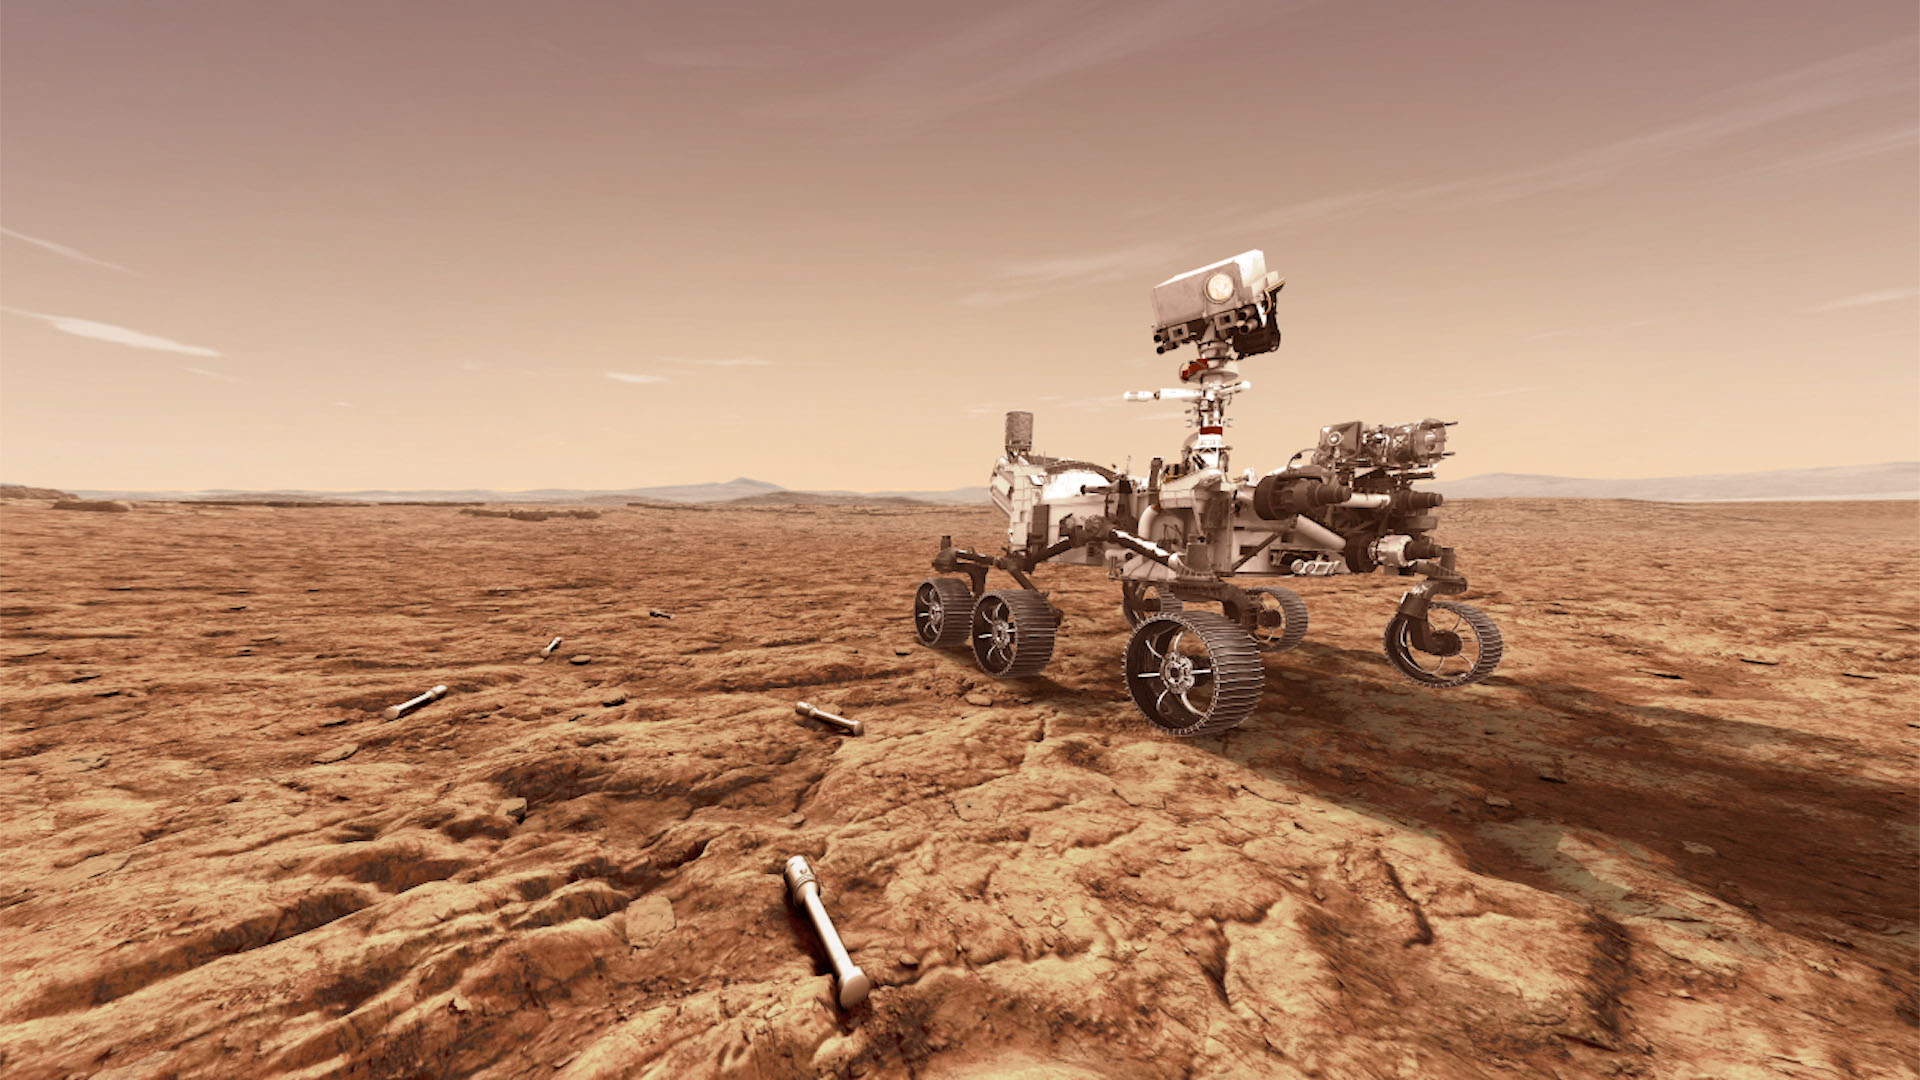
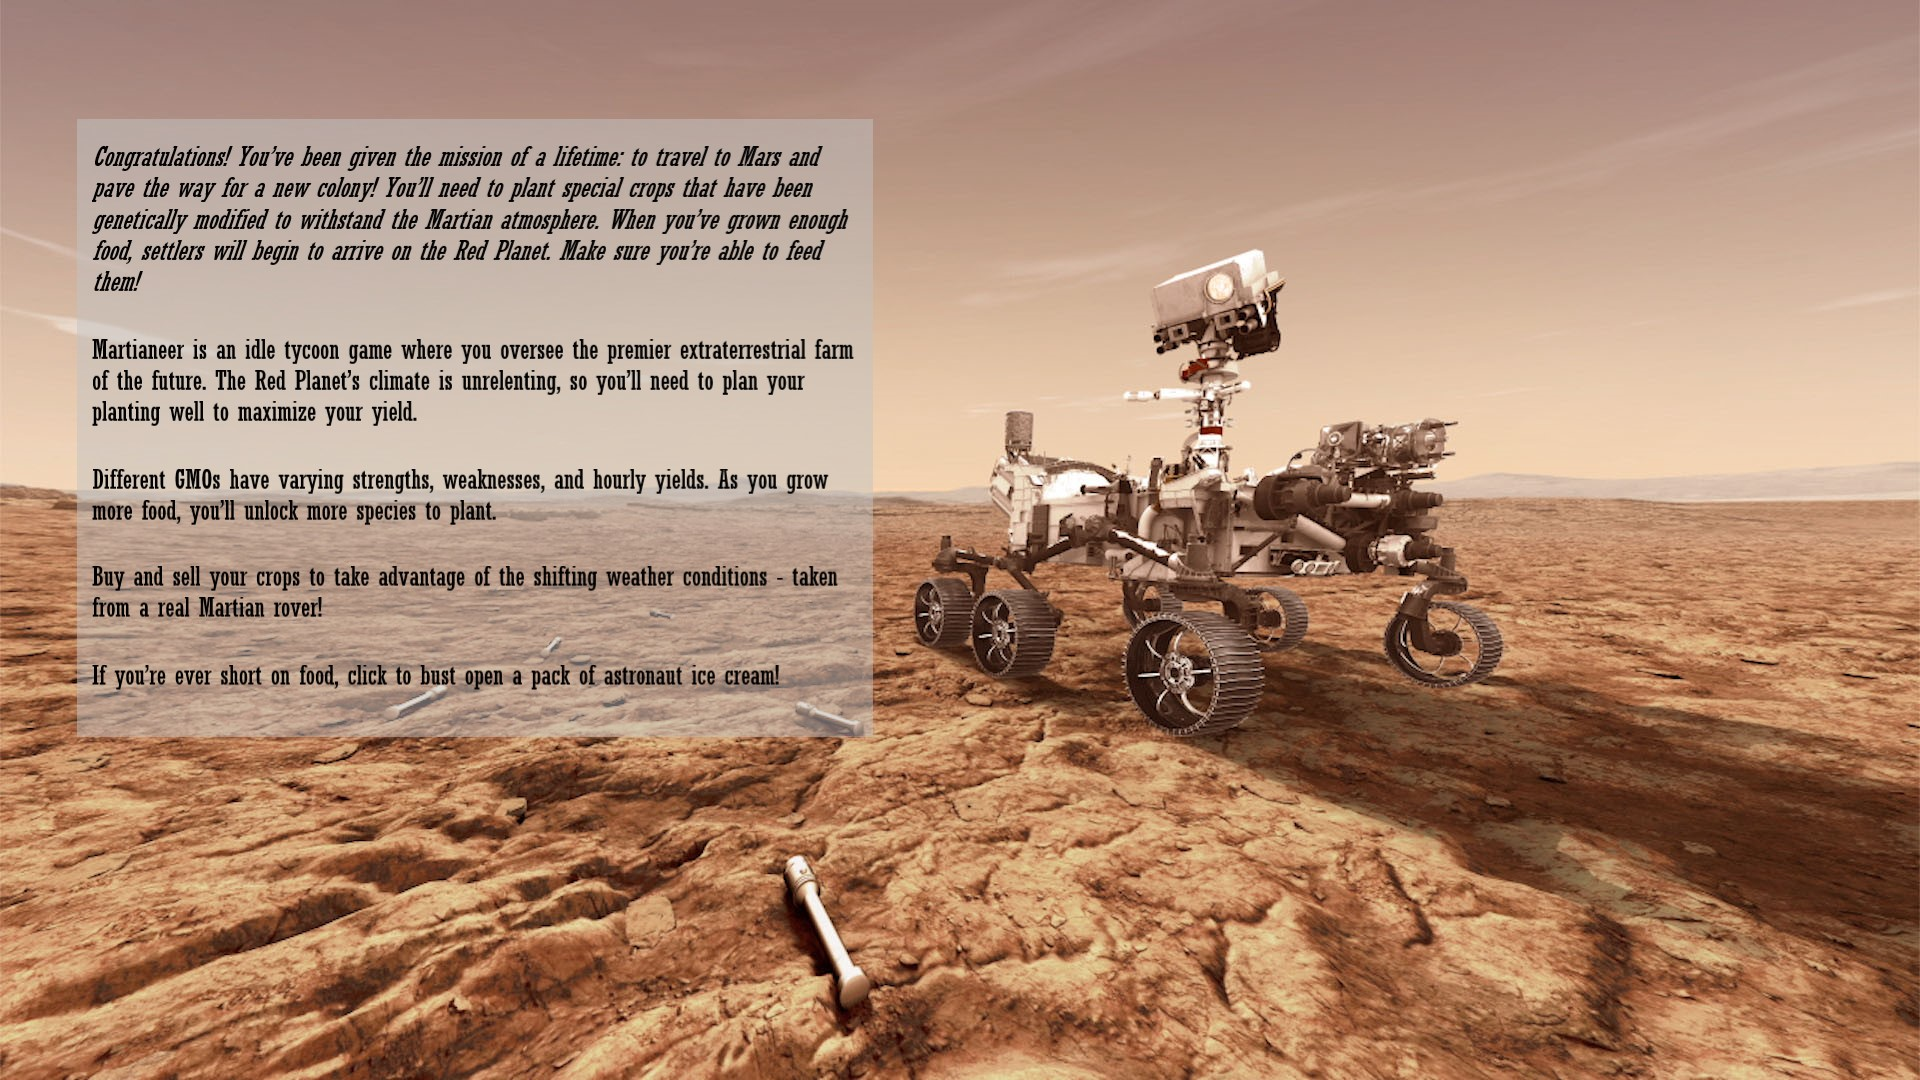
Add assets and finish help screen

Changed region(s): [[0.0312, 0.4278, 0.4688, 0.7028], [0.0312, 0.0917, 0.4688, 0.275], [0.0312, 0.3056, 0.4375, 0.3972]]

diff --git a/runner.py b/runner.py
@@ -171,7 +171,7 @@ def show_help_screen():
     screen.blit(img, img_rect)
 
     # Start with the start button. A very good place to start.
-    startBtnArea = pygame.Rect(2 * infoObject.current_w / 8, 12 * infoObject.current_h / 16, infoObject.current_w / 4, infoObject.current_h / 8 )
+    startBtnArea = pygame.Rect(5 * infoObject.current_w / 8, 12 * infoObject.current_h / 16, infoObject.current_w / 4, infoObject.current_h / 8 )
 
     if startBtnArea.collidepoint(pygame.mouse.get_pos()):
         draw_rect_alpha(screen, (255, 255, 255, 180), startBtnArea)
@@ -179,6 +179,7 @@ def show_help_screen():
         draw_rect_alpha(screen, (255, 255, 255, 127), startBtnArea)
 
     drawText("Start Game", "black", None, startBtnArea.x + startBtnArea.width / 3, startBtnArea.y + startBtnArea.height / 3, 25)
+
 
     # poll for events
     # pygame.QUIT event means the user clicked X to close your window
